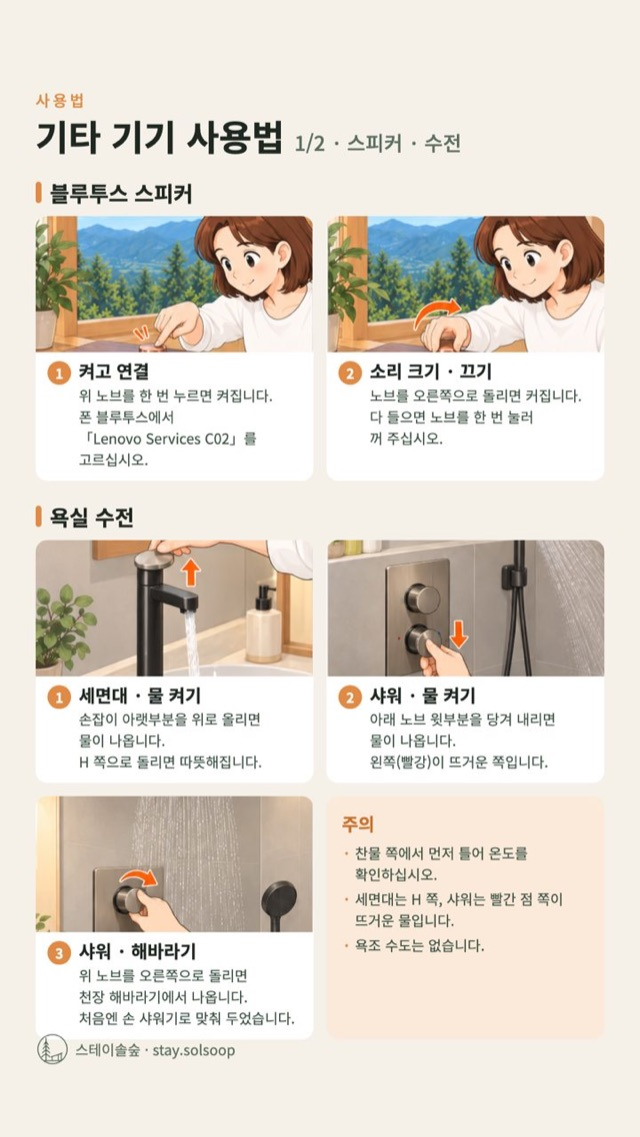
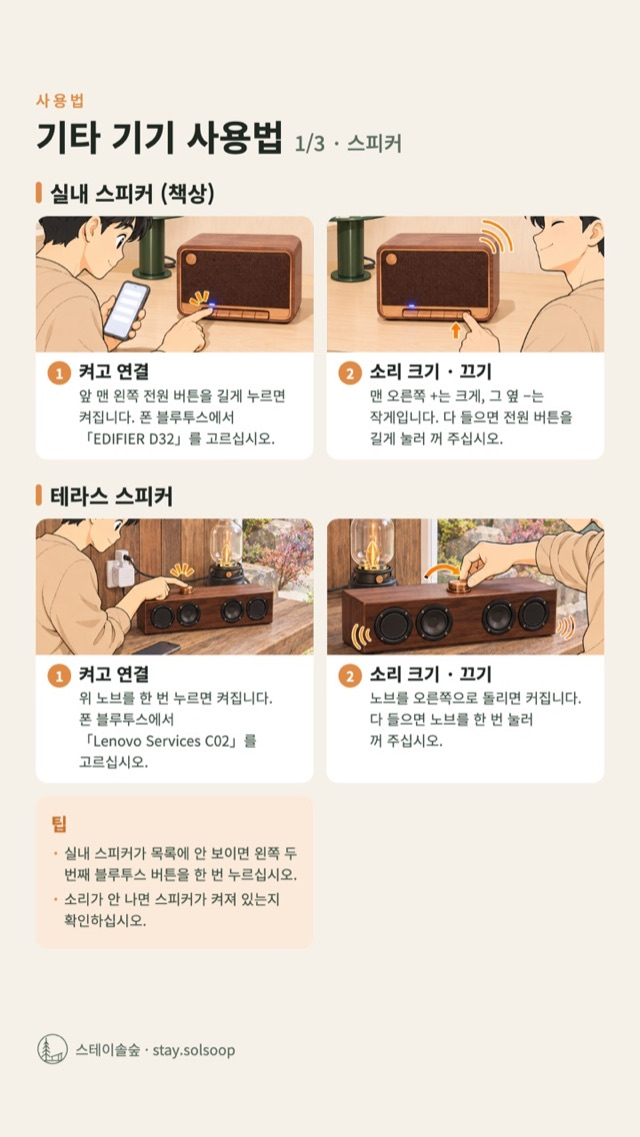
사용설명서: 기타 기기 3장 최신화, 불멍·테라스 히터 탭 추가

diff --git a/guide.html b/guide.html
@@ -50,8 +50,8 @@
 <section class="col col-w manual">
   <h2><button type="button" class="manual-toggle" aria-expanded="true" aria-controls="manual-body">솔숲 사용설명서</button></h2>
   <div class="manual-body" id="manual-body"><div class="manual-in">
-  <div class="tabs" role="tablist" aria-label="기기"><button type="button" role="tab" aria-selected="true" data-f="toaster">토스터</button><button type="button" role="tab" aria-selected="false" data-f="drip">드립포트</button><button type="button" role="tab" aria-selected="false" data-f="patio">패티오창</button><button type="button" role="tab" aria-selected="false" data-f="ondol">전기온돌</button><button type="button" role="tab" aria-selected="false" data-f="etc">기타 기기</button></div>
-  <div class="grp toons" data-g="toaster"><img src="img/toon_toaster1.jpg" srcset="img/w/toon_toaster1-640.jpg 640w, img/toon_toaster1.jpg 720w" sizes="(max-width: 1200px) 100vw, 1200px" alt="발뮤다 토스터 사용법 1" width="720" height="1280" loading="lazy" decoding="async"><img src="img/toon_toaster2.jpg" srcset="img/w/toon_toaster2-640.jpg 640w, img/toon_toaster2.jpg 720w" sizes="(max-width: 1200px) 100vw, 1200px" alt="발뮤다 토스터 사용법 2" width="720" height="1280" loading="lazy" decoding="async"></div><div class="grp toons" data-g="drip" hidden><img src="img/toon_drip1.jpg" srcset="img/w/toon_drip1-640.jpg 640w, img/toon_drip1.jpg 720w" sizes="(max-width: 1200px) 100vw, 1200px" alt="펠로우 드립포트 사용법 1" width="720" height="1280" loading="lazy" decoding="async"><img src="img/toon_drip2.jpg" srcset="img/w/toon_drip2-640.jpg 640w, img/toon_drip2.jpg 720w" sizes="(max-width: 1200px) 100vw, 1200px" alt="펠로우 드립포트 사용법 2" width="720" height="1280" loading="lazy" decoding="async"></div><div class="grp toons" data-g="patio" hidden><img src="img/toon_patio1.jpg" srcset="img/w/toon_patio1-640.jpg 640w, img/toon_patio1.jpg 720w" sizes="(max-width: 1200px) 100vw, 1200px" alt="패티오창 여닫는 법 1" width="720" height="1280" loading="lazy" decoding="async"><img src="img/toon_patio2.jpg" srcset="img/w/toon_patio2-640.jpg 640w, img/toon_patio2.jpg 720w" sizes="(max-width: 1200px) 100vw, 1200px" alt="패티오창 여닫는 법 2" width="720" height="1280" loading="lazy" decoding="async"></div><div class="grp toons" data-g="ondol" hidden><img src="img/toon_ondol1.jpg" srcset="img/w/toon_ondol1-640.jpg 640w, img/toon_ondol1.jpg 720w" sizes="(max-width: 1200px) 100vw, 1200px" alt="전기온돌 온도조절기 사용법 1" width="720" height="1280" loading="lazy" decoding="async"><img src="img/toon_ondol2.jpg" srcset="img/w/toon_ondol2-640.jpg 640w, img/toon_ondol2.jpg 720w" sizes="(max-width: 1200px) 100vw, 1200px" alt="전기온돌 온도조절기 사용법 2" width="720" height="1280" loading="lazy" decoding="async"></div><div class="grp toons" data-g="etc" hidden><img src="img/toon_etc1.jpg" srcset="img/w/toon_etc1-640.jpg 640w, img/toon_etc1.jpg 720w" sizes="(max-width: 1200px) 100vw, 1200px" alt="기타 기기 사용법 1" width="720" height="1280" loading="lazy" decoding="async"><img src="img/toon_etc2.jpg" srcset="img/w/toon_etc2-640.jpg 640w, img/toon_etc2.jpg 720w" sizes="(max-width: 1200px) 100vw, 1200px" alt="기타 기기 사용법 2" width="720" height="1280" loading="lazy" decoding="async"></div>
+  <div class="tabs" role="tablist" aria-label="기기"><button type="button" role="tab" aria-selected="true" data-f="toaster">토스터</button><button type="button" role="tab" aria-selected="false" data-f="drip">드립포트</button><button type="button" role="tab" aria-selected="false" data-f="patio">패티오창</button><button type="button" role="tab" aria-selected="false" data-f="ondol">전기온돌</button><button type="button" role="tab" aria-selected="false" data-f="etc">기타 기기</button><button type="button" role="tab" aria-selected="false" data-f="fire">불멍 · 히터</button></div>
+  <div class="grp toons" data-g="toaster"><img src="img/toon_toaster1.jpg" srcset="img/w/toon_toaster1-640.jpg 640w, img/toon_toaster1.jpg 720w" sizes="(max-width: 1200px) 100vw, 1200px" alt="발뮤다 토스터 사용법 1" width="720" height="1280" loading="lazy" decoding="async"><img src="img/toon_toaster2.jpg" srcset="img/w/toon_toaster2-640.jpg 640w, img/toon_toaster2.jpg 720w" sizes="(max-width: 1200px) 100vw, 1200px" alt="발뮤다 토스터 사용법 2" width="720" height="1280" loading="lazy" decoding="async"></div><div class="grp toons" data-g="drip" hidden><img src="img/toon_drip1.jpg" srcset="img/w/toon_drip1-640.jpg 640w, img/toon_drip1.jpg 720w" sizes="(max-width: 1200px) 100vw, 1200px" alt="펠로우 드립포트 사용법 1" width="720" height="1280" loading="lazy" decoding="async"><img src="img/toon_drip2.jpg" srcset="img/w/toon_drip2-640.jpg 640w, img/toon_drip2.jpg 720w" sizes="(max-width: 1200px) 100vw, 1200px" alt="펠로우 드립포트 사용법 2" width="720" height="1280" loading="lazy" decoding="async"></div><div class="grp toons" data-g="patio" hidden><img src="img/toon_patio1.jpg" srcset="img/w/toon_patio1-640.jpg 640w, img/toon_patio1.jpg 720w" sizes="(max-width: 1200px) 100vw, 1200px" alt="패티오창 여닫는 법 1" width="720" height="1280" loading="lazy" decoding="async"><img src="img/toon_patio2.jpg" srcset="img/w/toon_patio2-640.jpg 640w, img/toon_patio2.jpg 720w" sizes="(max-width: 1200px) 100vw, 1200px" alt="패티오창 여닫는 법 2" width="720" height="1280" loading="lazy" decoding="async"></div><div class="grp toons" data-g="ondol" hidden><img src="img/toon_ondol1.jpg" srcset="img/w/toon_ondol1-640.jpg 640w, img/toon_ondol1.jpg 720w" sizes="(max-width: 1200px) 100vw, 1200px" alt="전기온돌 온도조절기 사용법 1" width="720" height="1280" loading="lazy" decoding="async"><img src="img/toon_ondol2.jpg" srcset="img/w/toon_ondol2-640.jpg 640w, img/toon_ondol2.jpg 720w" sizes="(max-width: 1200px) 100vw, 1200px" alt="전기온돌 온도조절기 사용법 2" width="720" height="1280" loading="lazy" decoding="async"></div><div class="grp toons" data-g="etc" hidden><img src="img/toon_etc1.jpg" srcset="img/w/toon_etc1-640.jpg 640w, img/toon_etc1.jpg 720w" sizes="(max-width: 1200px) 100vw, 1200px" alt="기타 기기 사용법 1 · 스피커" width="720" height="1280" loading="lazy" decoding="async"><img src="img/toon_etc2.jpg" srcset="img/w/toon_etc2-640.jpg 640w, img/toon_etc2.jpg 720w" sizes="(max-width: 1200px) 100vw, 1200px" alt="기타 기기 사용법 2 · 욕실 수전" width="720" height="1280" loading="lazy" decoding="async"><img src="img/toon_etc3.jpg" srcset="img/w/toon_etc3-640.jpg 640w, img/toon_etc3.jpg 720w" sizes="(max-width: 1200px) 100vw, 1200px" alt="기타 기기 사용법 3 · 전기요" width="720" height="1280" loading="lazy" decoding="async"></div><div class="grp toons" data-g="fire" hidden><img src="img/toon_fire1.jpg" srcset="img/w/toon_fire1-640.jpg 640w, img/toon_fire1.jpg 720w" sizes="(max-width: 1200px) 100vw, 1200px" alt="불멍 · 테라스 히터 사용법" width="720" height="1280" loading="lazy" decoding="async"></div>
   </div></div>
 </section>
 <nav class="col next" aria-label="이전·다음 페이지"><a class="more prev" href="around.html">← 주변</a><a class="more" href="location.html">오시는 길 보기 →</a></nav>
